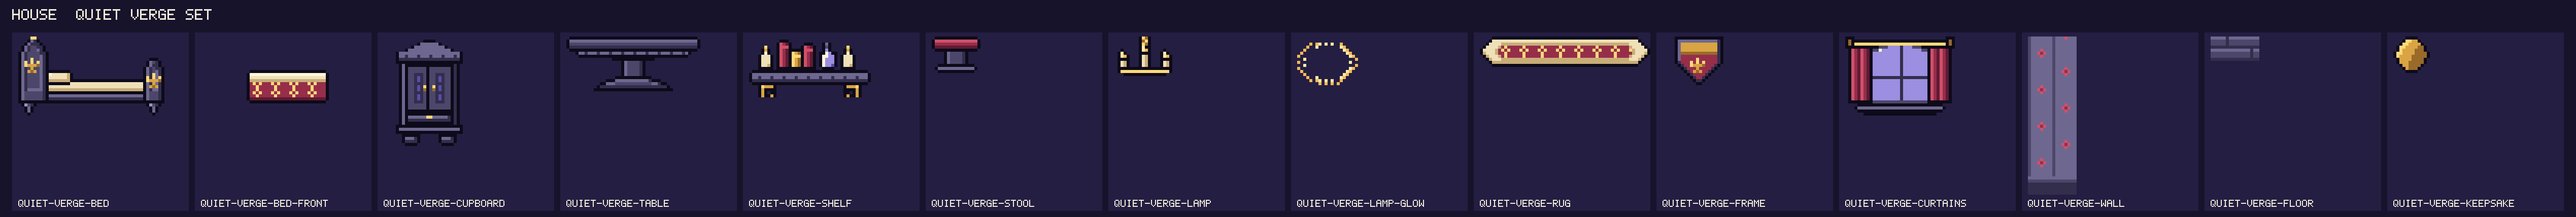
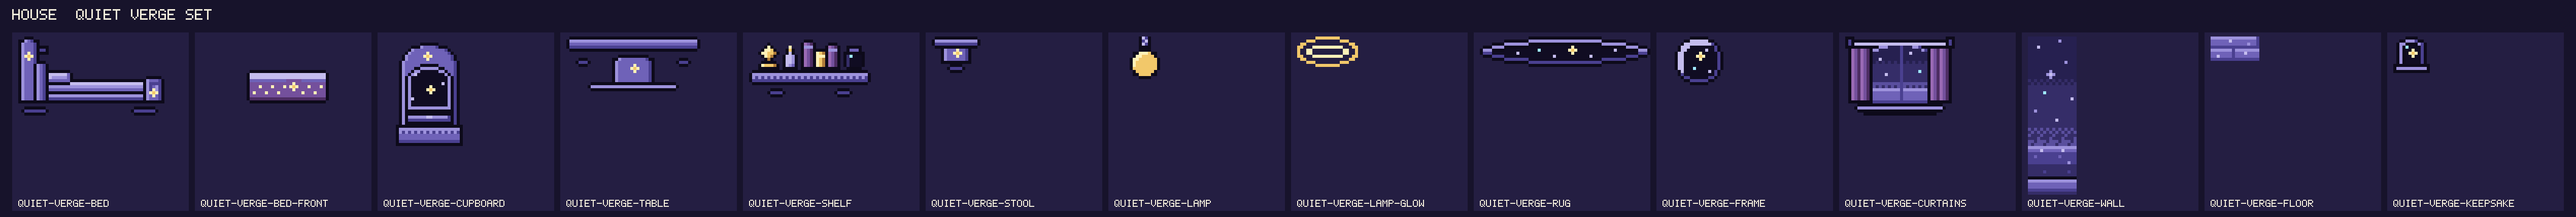
Quiet Verge: words, compendium, shipped id, set counts; a test for TODO left in housing content
Claude-Session: https://claude.ai/code/session_01EFPnY7ahFEnrNM2ViZtrVZ

diff --git a/packages/game/test/housing-content.test.ts b/packages/game/test/housing-content.test.ts
@@ -218,6 +218,26 @@ describe('housing content: text', () => {
       expect(p.hint.length, p.id).toBeLessThanOrEqual(90);
     }
   });
+
+  it('leaves no TODO from `pnpm housing new-set` in the content or the compendium', () => {
+    const left = [
+      ...housing.sets.flatMap((s) => [
+        [s.id, s.theme],
+        [s.id, s.line],
+        [s.id, s.keepsake.name],
+        [s.id, s.keepsake.line],
+      ]),
+      ...housing.pieces.map((p) => [p.id, `${p.name} ${p.line} ${p.hint}`]),
+      ...housing.skins.map((s) => [s.id, `${s.name} ${s.hint ?? ''}`]),
+    ]
+      .filter(([, text]) => /TODO/.test(text ?? ''))
+      .map(([id]) => id);
+    expect(left).toEqual([]);
+    const draft = compendium()
+      .split('\n')
+      .filter((l) => /TODO|\| draft: /.test(l));
+    expect(draft).toEqual([]);
+  });
 });
 
 describe('housing content: the full house layout (housing.md 2.4)', () => {

diff --git a/apps/activity/src/sprites/workshop/new-set.ts b/apps/activity/src/sprites/workshop/new-set.ts
@@ -30,7 +30,10 @@ export const PATHS = {
   sheet: (id: string): string => `docs/art/house-${id}.png`,
 } as const;
 
-/** The sets of the first night: never removed by `remove-set` (and `cosy`, the starter set, which has no style). */
+/**
+ * The shipped sets: never removed by `remove-set`, and `new-set` refuses their ids (`cosy`, the starter set, has no
+ * style). The first night's nine, then each set made with `new-set` once it is finished (the `furniture-set` skill).
+ */
 export const SHIPPED_SET_IDS: readonly string[] = [
   'cosy',
   'tidepool',
@@ -41,6 +44,7 @@ export const SHIPPED_SET_IDS: readonly string[] = [
   'fenkeeper',
   'ancient',
   'lantern-night',
+  'quiet-verge',
 ];
 
 /** The style `new-set` copies when `--from` is not given. */

diff --git a/apps/activity/src/sprites/workshop/new-set.test.ts b/apps/activity/src/sprites/workshop/new-set.test.ts
@@ -261,8 +261,10 @@ describe('remove-set, as a plan', () => {
 
   it('never touches a shipped set', () => {
     const { read } = files();
-    for (const id of ['cosy', 'tidepool', 'lantern-night'])
+    for (const id of ['cosy', 'tidepool', 'lantern-night', 'quiet-verge']) {
       expect(() => planRemoveSet(id, read)).toThrow(/shipped/);
+      expect(() => planNewSet(parseSpec(id, {}), read, ctx(read))).toThrow(/shipped/);
+    }
   });
 });
 

diff --git a/docs/compendium/housing.md b/docs/compendium/housing.md
@@ -86,37 +86,37 @@ A form is a kind of furniture and the spot it fits. Every piece of a form shares
 
 ## Sets
 
-Nine sets: the starter set and eight to collect, each with its own palette and one motif that appears on every piece. Finishing a set puts its keepsake in the trophy hall's cabinet. A set is never a bonus. `(content: sets.json)`
+Ten sets: the starter set and nine to collect, each with its own palette and one motif that appears on every piece. Finishing a set puts its keepsake in the trophy hall's cabinet. A set is never a bonus. `(content: sets.json)`
 
-| Set           | Element | Keepsake `(content)`                                               | Motif and palette `(design)`                                                                                                                |
-| ------------- | ------- | ------------------------------------------------------------------ | ------------------------------------------------------------------------------------------------------------------------------------------- |
-| Cosy          | None    | Hearth Bell: A small brass bell. It rings when someone comes home. | The living room as it is: warm wood, cream cushions. Shipped sprites; only the missing forms are new.                                       |
-| Tidepool      | Tide    | Pearl Shell: A shell with a pearl still inside.                    | Driftwood with scalloped shell edges; sea blue, sand, pearl white.                                                                          |
-| Moonlit       | Tide    | Moon Pebble: A smooth stone, cool at noon and warm at midnight.    | Night-reef blue lacquer, coral pink inlay, a soft moonstone knob; silver highlights.                                                        |
-| Emberhold     | Ember   | Forge Ember: A coal that has never gone out.                       | Forge-folk work: black charwood, riveted iron bands, amber glow; rust, coal, ember orange.                                                  |
-| Rootwood      | Grove   | Acorn Seedling: A seedling in a thimble, and growing.              | Woodfolk of the Hollow: living-wood curves, leaf carving, moss cushions; bark brown, moss and leaf greens.                                  |
-| Stormglass    | Spark   | Spark Bead: A glass bead with a small storm inside.                | Pale ash with a lightning scar, copper coils and glass beads; slate, copper, storm violet.                                                  |
-| Fenkeeper     | Mire    | Opal Drop: A drop of opal on a reed string.                        | The bog keeps things: dark oak with reed bindings, an oil-sheen opal; peat brown, murky teal, a violet glint.                               |
-| Ancient       | None    | Gold Spiral: A small spiral of gold leaf, worn thin by hands.      | Carved standing-stone slabs, spiral carvings, worn gold leaf; sandstone, faded gold, patina teal.                                           |
-| Lantern Night | None    | Paper Tassel: A red tassel that still smells of festival evenings. | Paper lanterns and bunting on painted wood; festival red, gold, cream.                                                                      |
-| Quiet Verge   | None    | Quiet Verge Keepsake: TODO line                                    | draft: Dusk-violet stone edged in pale rim light, arches with a warm star inside, chips of stone that float; window dark, lilac, star gold. |
+| Set           | Element | Keepsake `(content)`                                                        | Motif and palette `(design)`                                                                                                         |
+| ------------- | ------- | --------------------------------------------------------------------------- | ------------------------------------------------------------------------------------------------------------------------------------ |
+| Cosy          | None    | Hearth Bell: A small brass bell. It rings when someone comes home.          | The living room as it is: warm wood, cream cushions. Shipped sprites; only the missing forms are new.                                |
+| Tidepool      | Tide    | Pearl Shell: A shell with a pearl still inside.                             | Driftwood with scalloped shell edges; sea blue, sand, pearl white.                                                                   |
+| Moonlit       | Tide    | Moon Pebble: A smooth stone, cool at noon and warm at midnight.             | Night-reef blue lacquer, coral pink inlay, a soft moonstone knob; silver highlights.                                                 |
+| Emberhold     | Ember   | Forge Ember: A coal that has never gone out.                                | Forge-folk work: black charwood, riveted iron bands, amber glow; rust, coal, ember orange.                                           |
+| Rootwood      | Grove   | Acorn Seedling: A seedling in a thimble, and growing.                       | Woodfolk of the Hollow: living-wood curves, leaf carving, moss cushions; bark brown, moss and leaf greens.                           |
+| Stormglass    | Spark   | Spark Bead: A glass bead with a small storm inside.                         | Pale ash with a lightning scar, copper coils and glass beads; slate, copper, storm violet.                                           |
+| Fenkeeper     | Mire    | Opal Drop: A drop of opal on a reed string.                                 | The bog keeps things: dark oak with reed bindings, an oil-sheen opal; peat brown, murky teal, a violet glint.                        |
+| Ancient       | None    | Gold Spiral: A small spiral of gold leaf, worn thin by hands.               | Carved standing-stone slabs, spiral carvings, worn gold leaf; sandstone, faded gold, patina teal.                                    |
+| Lantern Night | None    | Paper Tassel: A red tassel that still smells of festival evenings.          | Paper lanterns and bunting on painted wood; festival red, gold, cream.                                                               |
+| Quiet Verge   | None    | Pocket Window: A small stone window. Look in, and one warm star looks back. | Dusk-violet stone edged in pale rim light, arches with a warm star inside, chips of stone that float; window dark, lilac, star gold. |
 
 ### Keepsakes
 
 Shown in the cabinet when the set is complete. `(content: sets.json)`
 
-| Keepsake             | Set           | Line `(content)`                                       |
-| -------------------- | ------------- | ------------------------------------------------------ |
-| Hearth Bell          | Cosy          | A small brass bell. It rings when someone comes home.  |
-| Pearl Shell          | Tidepool      | A shell with a pearl still inside.                     |
-| Moon Pebble          | Moonlit       | A smooth stone, cool at noon and warm at midnight.     |
-| Forge Ember          | Emberhold     | A coal that has never gone out.                        |
-| Acorn Seedling       | Rootwood      | A seedling in a thimble, and growing.                  |
-| Spark Bead           | Stormglass    | A glass bead with a small storm inside.                |
-| Opal Drop            | Fenkeeper     | A drop of opal on a reed string.                       |
-| Gold Spiral          | Ancient       | A small spiral of gold leaf, worn thin by hands.       |
-| Paper Tassel         | Lantern Night | A red tassel that still smells of festival evenings.   |
-| Quiet Verge Keepsake | Quiet Verge   | TODO: one line about the Quiet Verge keepsake. (draft) |
+| Keepsake       | Set           | Line `(content)`                                             |
+| -------------- | ------------- | ------------------------------------------------------------ |
+| Hearth Bell    | Cosy          | A small brass bell. It rings when someone comes home.        |
+| Pearl Shell    | Tidepool      | A shell with a pearl still inside.                           |
+| Moon Pebble    | Moonlit       | A smooth stone, cool at noon and warm at midnight.           |
+| Forge Ember    | Emberhold     | A coal that has never gone out.                              |
+| Acorn Seedling | Rootwood      | A seedling in a thimble, and growing.                        |
+| Spark Bead     | Stormglass    | A glass bead with a small storm inside.                      |
+| Opal Drop      | Fenkeeper     | A drop of opal on a reed string.                             |
+| Gold Spiral    | Ancient       | A small spiral of gold leaf, worn thin by hands.             |
+| Paper Tassel   | Lantern Night | A red tassel that still smells of festival evenings.         |
+| Pocket Window  | Quiet Verge   | A small stone window. Look in, and one warm star looks back. |
 
 ### Cosy set
 
@@ -273,19 +273,21 @@ Paper lanterns and bunting, for the longest evening of the year. `(content)`
 
 ### Quiet Verge set
 
-Draft: TODO one line about the Quiet Verge set. `(content)`
+Still stone and starlight, from the edge of the map. `(content)`
 
-| Piece                | Form     | Line `(content)`                               |
-| -------------------- | -------- | ---------------------------------------------- |
-| Quiet Verge Bed      | Bed      | TODO: one line about the Quiet Verge bed.      |
-| Quiet Verge Cupboard | Cupboard | TODO: one line about the Quiet Verge cupboard. |
-| Quiet Verge Table    | Table    | TODO: one line about the Quiet Verge table.    |
-| Quiet Verge Shelf    | Shelf    | TODO: one line about the Quiet Verge shelf.    |
-| Quiet Verge Stool    | Stool    | TODO: one line about the Quiet Verge stool.    |
-| Quiet Verge Lamp     | Lamp     | TODO: one line about the Quiet Verge lamp.     |
-| Quiet Verge Rug      | Rug      | TODO: one line about the Quiet Verge rug.      |
-| Quiet Verge Frame    | Frame    | TODO: one line about the Quiet Verge frame.    |
-| Quiet Verge Curtains | Curtains | TODO: one line about the Quiet Verge curtains. |
+**Compendium detail, not shipped.** Made from the stone of the Quiet Verge, the Void place at the edge of the map (`places.md`, concept): the leaning standing stones, the arch with one warm star inside, the still pool, the dark moon with a bright rim and the chips of stone that float just above the dust. Its blueprints turn up at the Old Crossroads, where the fifth shadow points, and at the Moonlit Reef, the other night place. Nothing in the set quite touches the floor.
+
+| Piece                | Form     | Line `(content)`                                                     |
+| -------------------- | -------- | -------------------------------------------------------------------- |
+| Quiet Verge Bed      | Bed      | Two standing stones at its head. It floats a finger above the floor. |
+| Quiet Verge Cupboard | Cupboard | An arched stone door with the night behind it, and one warm star.    |
+| Quiet Verge Table    | Table    | A stone top that hovers over its pillar and never wobbles.           |
+| Quiet Verge Shelf    | Shelf    | A shelf with no brackets. It stays up anyway.                        |
+| Quiet Verge Stool    | Stool    | A small stone seat, hovering over a chip of stone.                   |
+| Quiet Verge Lamp     | Lamp     | A little gold planet in a ring of its own light.                     |
+| Quiet Verge Rug      | Rug      | A still pool that holds the stars. Your feet stay dry.               |
+| Quiet Verge Frame    | Frame    | A dark moon with a bright rim, darker than the wall it hangs on.     |
+| Quiet Verge Curtains | Curtains | Plum curtains on a window where it is always dusk.                   |
 
 ## Wild pieces
 

diff --git a/docs/design/housing.md b/docs/design/housing.md
@@ -10,7 +10,7 @@ Misa's words this spec answers: the house "grows visibly ... further than just a
 - **It grows.** A plan of **parts**: the core grows hut, cottage, house (one to three floors); then the player chooses, in any order the prerequisites allow, a **cellar**, a **west wing** and an **east wing** (each with an upper floor of its own), and grounds: a **terrace**, a **decorative garden** and a **pool**. Each part is bought like Animal Crossing's loan: a price in Acorns (the `bait` currency), scrap, sometimes shards, and **luxury materials**; the player pays into it whenever and however much they like, there is no deadline and no interest, and the part is **built the moment it is fully paid**. The drawing changes at once: a wider roof, a second storey, wings with their own roofs, a hedge and a fountain, a pool with a lounger.
 - **Rooms have fixed spots.** Each room has six to ten typed spots (a window, a wall, a small wall, the ceiling, a big floor place, two small floor places, a rug) plus a wallpaper and a floor. Tapping a room focuses it; tapping a spot shows the pieces that fit it. No free placement, no grid.
 - **Furniture is made, not bought.** The **workbench** in the Hearth turns a known blueprint plus its materials, Acorns and scrap into the piece **at once** (no timer). Blueprints: the Cosy set and a few wild pieces are known from the start; set blueprints are rare finds from the places and fights each set belongs to; a few come from feats.
-- **Sets.** Eight sets of nine look-alike pieces (bed, cupboard, table, shelf, stool, lamp, rug, frame, curtains), each tied to a place and its element (the **Ancient** set is Misa's example), plus twelve **wild** pieces in no set and twelve garden and pool pieces. Each set also has a wallpaper and a floor. **Finishing a set** (owning one of every piece) puts the set's **keepsake** in the trophy hall's cabinet and in the catalogue. It is never a bonus.
+- **Sets.** Eight sets (nine since Quiet Verge, 2026-11-11) of nine look-alike pieces (bed, cupboard, table, shelf, stool, lamp, rug, frame, curtains), each tied to a place and its element (the **Ancient** set is Misa's example), plus twelve **wild** pieces in no set and twelve garden and pool pieces. Each set also has a wallpaper and a floor. **Finishing a set** (owning one of every piece) puts the set's **keepsake** in the trophy hall's cabinet and in the catalogue. It is never a bonus.
 - **Luxury materials** (sixteen: woods, stones, metals, cloth) drop from the moments that already reward the player: a finished trip, a scout's pack coming home, the end of a dungeon run, the raid finale, a Games medal. They are used by housing alone. The House shows "+N" on a material that grew since the player last looked.
 - **Displays fill themselves.** The Hearth's mantel holds the player's best raid plaque, or the empty outlined plaque of this week's boss. The **trophy hall** (the west wing's ground floor) holds a plaque per raid boss beaten (by best rank, with wins), the Games medals bench, the event-badge medallions, the Festival case, the commons' keepsakes, the completed journal sets as bound books, the dungeon depth marker and the set keepsakes. Nothing to place: they come from what the player already did.
 - **Housemates.** A bed is a piece like any other; on a bed the player can put one creature. It is drawn asleep in its bed (a "z" over it) when it is not away on a trip, a job, a valley post or an open dungeon run; otherwise the bed is just made. At most **3 housemates** per house (pick), one bed per room. It earns nothing different from resting anywhere: it is a picture, not a post.
@@ -381,19 +381,20 @@ All parts: 2,000 Acorns and 13,000 scrap, about five weeks of a late-game daily 
 
 "Raid (Tide)" means any Tide boss's finale; the boss's element picks the table. Flavour lines go in the compendium (package D), in its voice: "Grey wood the tide sanded smooth. It still smells of salt."; "Black oak the bog kept for a hundred years, and gave back."
 
-**Sets** (eight plus the starter; each has the nine forms, a wallpaper and a floor; 72 set pieces plus the Cosy set's 18, and 18 wallpapers and floors):
+**Sets** (eight plus the starter at first, nine since Quiet Verge; each has the nine forms, a wallpaper and a floor; 72 set pieces plus the Cosy set's 18, and 18 wallpapers and floors):
 
-| Set           | Element | Primary       | Accent        | Tier | Blueprints drop from                              | Theme (silhouette and palette)                                                                                   |
-| ------------- | ------- | ------------- | ------------- | ---- | ------------------------------------------------- | ---------------------------------------------------------------------------------------------------------------- |
-| Cosy          | none    |               |               | 0    | known at start                                    | the living room as it is: warm wood, cream cushions (shipped sprites; only the missing forms are new)            |
-| Tidepool      | Tide    | Driftwood     | Sea Glass     | 1    | Tidepools trips and scouts; Tidal Colossus        | driftwood with scalloped shell edges; sea blue, sand, pearl white                                                |
-| Moonlit       | Tide    | Sea Silk      | Moonstone     | 2    | Moonlit Reef; a Tide boss's finale                | night-reef blue lacquer, coral pink inlay, a soft moonstone knob; silver highlights                              |
-| Emberhold     | Ember   | Charwood      | Cinder Iron   | 1    | Ember Caves; the dungeon; Cinder Wyrm             | forge-folk work: black charwood, riveted iron bands, amber glow; rust, coal, ember orange                        |
-| Rootwood      | Grove   | Heartbark     | Moss Velvet   | 1    | Verdant Hollow; Thornmother                       | woodfolk of the Hollow: living-wood curves, leaf carving, moss cushions; bark brown, moss and leaf greens        |
-| Stormglass    | Spark   | Lightning Ash | Bright Copper | 1    | Storm Ridge; Storm Sovereign                      | pale ash with a lightning scar, copper coils and glass beads; slate, copper, storm violet                        |
-| Fenkeeper     | Mire    | Bog Oak       | Fen Opal      | 1    | Sunken Fen; the dungeon; Old Bogback              | the bog keeps things: dark oak with reed bindings, an oil-sheen opal; peat brown, murky teal, a violet glint     |
-| Ancient       | none    | any stone     | Old Gold      | 2    | any raid finale cleared; Old Crossroads           | Misa's example: carved standing-stone slabs, spiral carvings, worn gold leaf; sandstone, faded gold, patina teal |
-| Lantern Night | none    | Lantern Silk  | any wood      | 2    | Festival Grounds; a Festival finale; a Games gold | paper lanterns and bunting on painted wood; festival red, gold, cream                                            |
+| Set           | Element | Primary       | Accent        | Tier | Blueprints drop from                                  | Theme (silhouette and palette)                                                                                                                                                                   |
+| ------------- | ------- | ------------- | ------------- | ---- | ----------------------------------------------------- | ------------------------------------------------------------------------------------------------------------------------------------------------------------------------------------------------ |
+| Cosy          | none    |               |               | 0    | known at start                                        | the living room as it is: warm wood, cream cushions (shipped sprites; only the missing forms are new)                                                                                            |
+| Tidepool      | Tide    | Driftwood     | Sea Glass     | 1    | Tidepools trips and scouts; Tidal Colossus            | driftwood with scalloped shell edges; sea blue, sand, pearl white                                                                                                                                |
+| Moonlit       | Tide    | Sea Silk      | Moonstone     | 2    | Moonlit Reef; a Tide boss's finale                    | night-reef blue lacquer, coral pink inlay, a soft moonstone knob; silver highlights                                                                                                              |
+| Emberhold     | Ember   | Charwood      | Cinder Iron   | 1    | Ember Caves; the dungeon; Cinder Wyrm                 | forge-folk work: black charwood, riveted iron bands, amber glow; rust, coal, ember orange                                                                                                        |
+| Rootwood      | Grove   | Heartbark     | Moss Velvet   | 1    | Verdant Hollow; Thornmother                           | woodfolk of the Hollow: living-wood curves, leaf carving, moss cushions; bark brown, moss and leaf greens                                                                                        |
+| Stormglass    | Spark   | Lightning Ash | Bright Copper | 1    | Storm Ridge; Storm Sovereign                          | pale ash with a lightning scar, copper coils and glass beads; slate, copper, storm violet                                                                                                        |
+| Fenkeeper     | Mire    | Bog Oak       | Fen Opal      | 1    | Sunken Fen; the dungeon; Old Bogback                  | the bog keeps things: dark oak with reed bindings, an oil-sheen opal; peat brown, murky teal, a violet glint                                                                                     |
+| Ancient       | none    | any stone     | Old Gold      | 2    | any raid finale cleared; Old Crossroads               | Misa's example: carved standing-stone slabs, spiral carvings, worn gold leaf; sandstone, faded gold, patina teal                                                                                 |
+| Lantern Night | none    | Lantern Silk  | any wood      | 2    | Festival Grounds; a Festival finale; a Games gold     | paper lanterns and bunting on painted wood; festival red, gold, cream                                                                                                                            |
+| Quiet Verge   | none    | any stone     | Moonstone     | 2    | Old Crossroads; Moonlit Reef; trips, scouts and raids | the Void place (2026-11-11, the first set made with `pnpm housing new-set`): standing stones, an arch with a warm star, floating chips, a still pool; dusk violet, lilac, window dark, star gold |
 
 Set piece ids are `<set>-<form>` for the nine forms (`ancient-stool`, `ancient-cupboard`); names are "<Set> <Form>" ("Ancient Stool"). Skin ids `<set>-wall`, `<set>-floor`.
 

diff --git a/docs/compendium/places.md b/docs/compendium/places.md
@@ -800,6 +800,10 @@ A late place, like the Moonlit Reef, but with its own door. The Old Crossroads s
 - Something sings across the water at the Reef `(T01)`. Here, at the great ring, something answers.
 - The payoff lynx and the support planet share one window each: where did the first window come from? No one here will say.
 
+### In the house
+
+The **Quiet Verge** furniture set is the first piece of this place to ship (`housing.md`, "Quiet Verge set"): its standing stones, its arch with the warm star, the still pool and the dark moon, made into furniture. Its blueprints come from the Old Crossroads and the Moonlit Reef until the place itself opens. `(content: sets.json)`
+
 ### Items and content needed to ship
 
 Void element (chart, marks), four named creatures with stats and lore, a destination entry (flags for access and night), the two banners moved into `data/`, journal pages, push-on text, a glossary entry, and an entry in the weekly rotation. Listed in the set's `notes`.

diff --git a/docs/design/housing-workshop.md b/docs/design/housing-workshop.md
@@ -173,7 +173,7 @@ Each shipped set has its style (`workshop/styles/`), and its pack draws through 
 pnpm housing new-set <id> [--name "Quiet Verge"] [--theme "..."] [--from <style>] [--dry-run]
     [--element tide|none|...] [--tier 1|2] [--primary <material>|family:wood] [--accent ...]
     [--moments trip,scout,raid] [--places id,id] [--bosses id,id] [--no-checks]
-pnpm housing remove-set <id> [--dry-run]     undoes new-set; refuses the nine shipped ids (Cosy and the eight sets)
+pnpm housing remove-set <id> [--dry-run]     undoes new-set; refuses the shipped ids (`SHIPPED_SET_IDS`: Cosy, the first eight sets, and each finished new set)
 pnpm housing check                           the lock, the art catalogue and every set's tests in one go
 ```
 

diff --git a/docs/art/README.md b/docs/art/README.md
@@ -264,7 +264,7 @@ Status: **liked** means Misa approved the look; **draft** means he has not said 
 - **Status:** draft
 - **Requested:** 2026-11-11: player housing furniture, a set made in the workshop (pnpm housing new-set).
 - **Source:** `apps/activity/src/sprites/concepts/house-quiet-verge.ts` (draw it with `pnpm art house-quiet-verge`)
-- **Sheet of:** `16e0d3b4b901`
+- **Sheet of:** `1958ecc8c6b4`
 - Dusk-violet stone edged in pale rim light, arches with a warm star inside, chips of stone that float; window dark, lilac, star gold. Drawn from its style (apps/activity/src/sprites/workshop/styles/quiet-verge.ts); the pack is data/house/quiet-verge.ts.
 - Needs the housing content (piece, skin and set ids as drawn).
 
